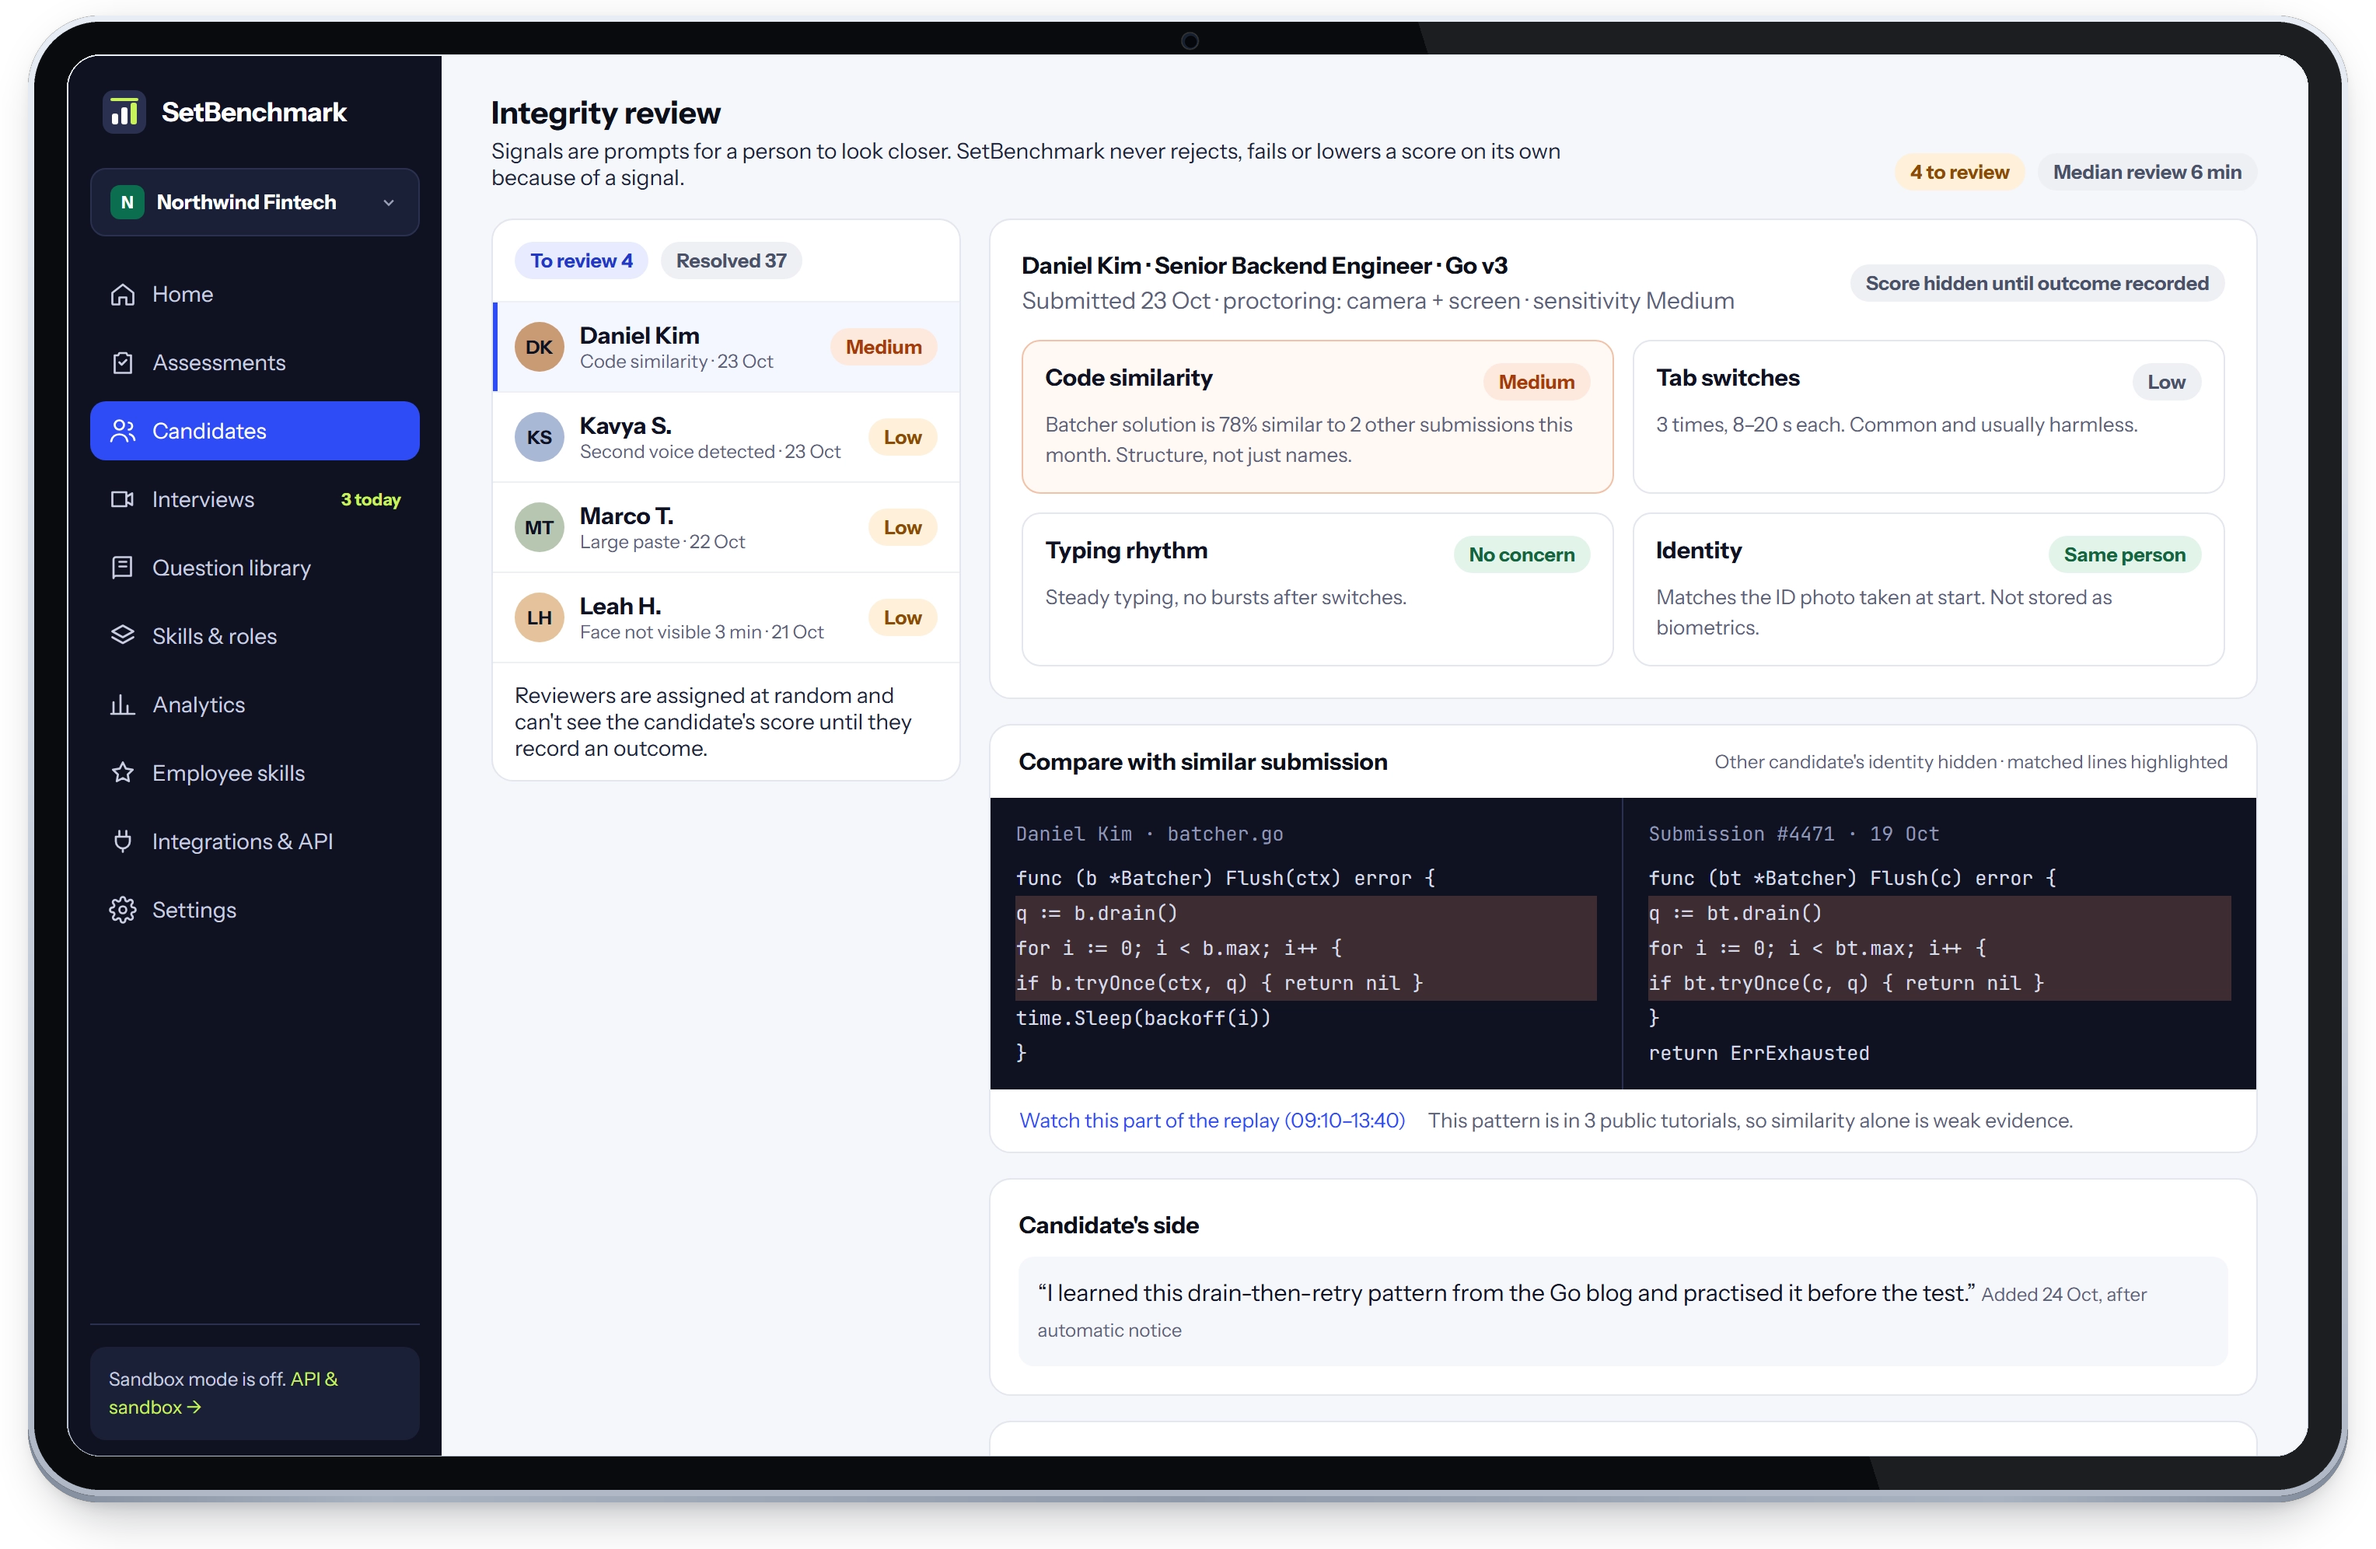
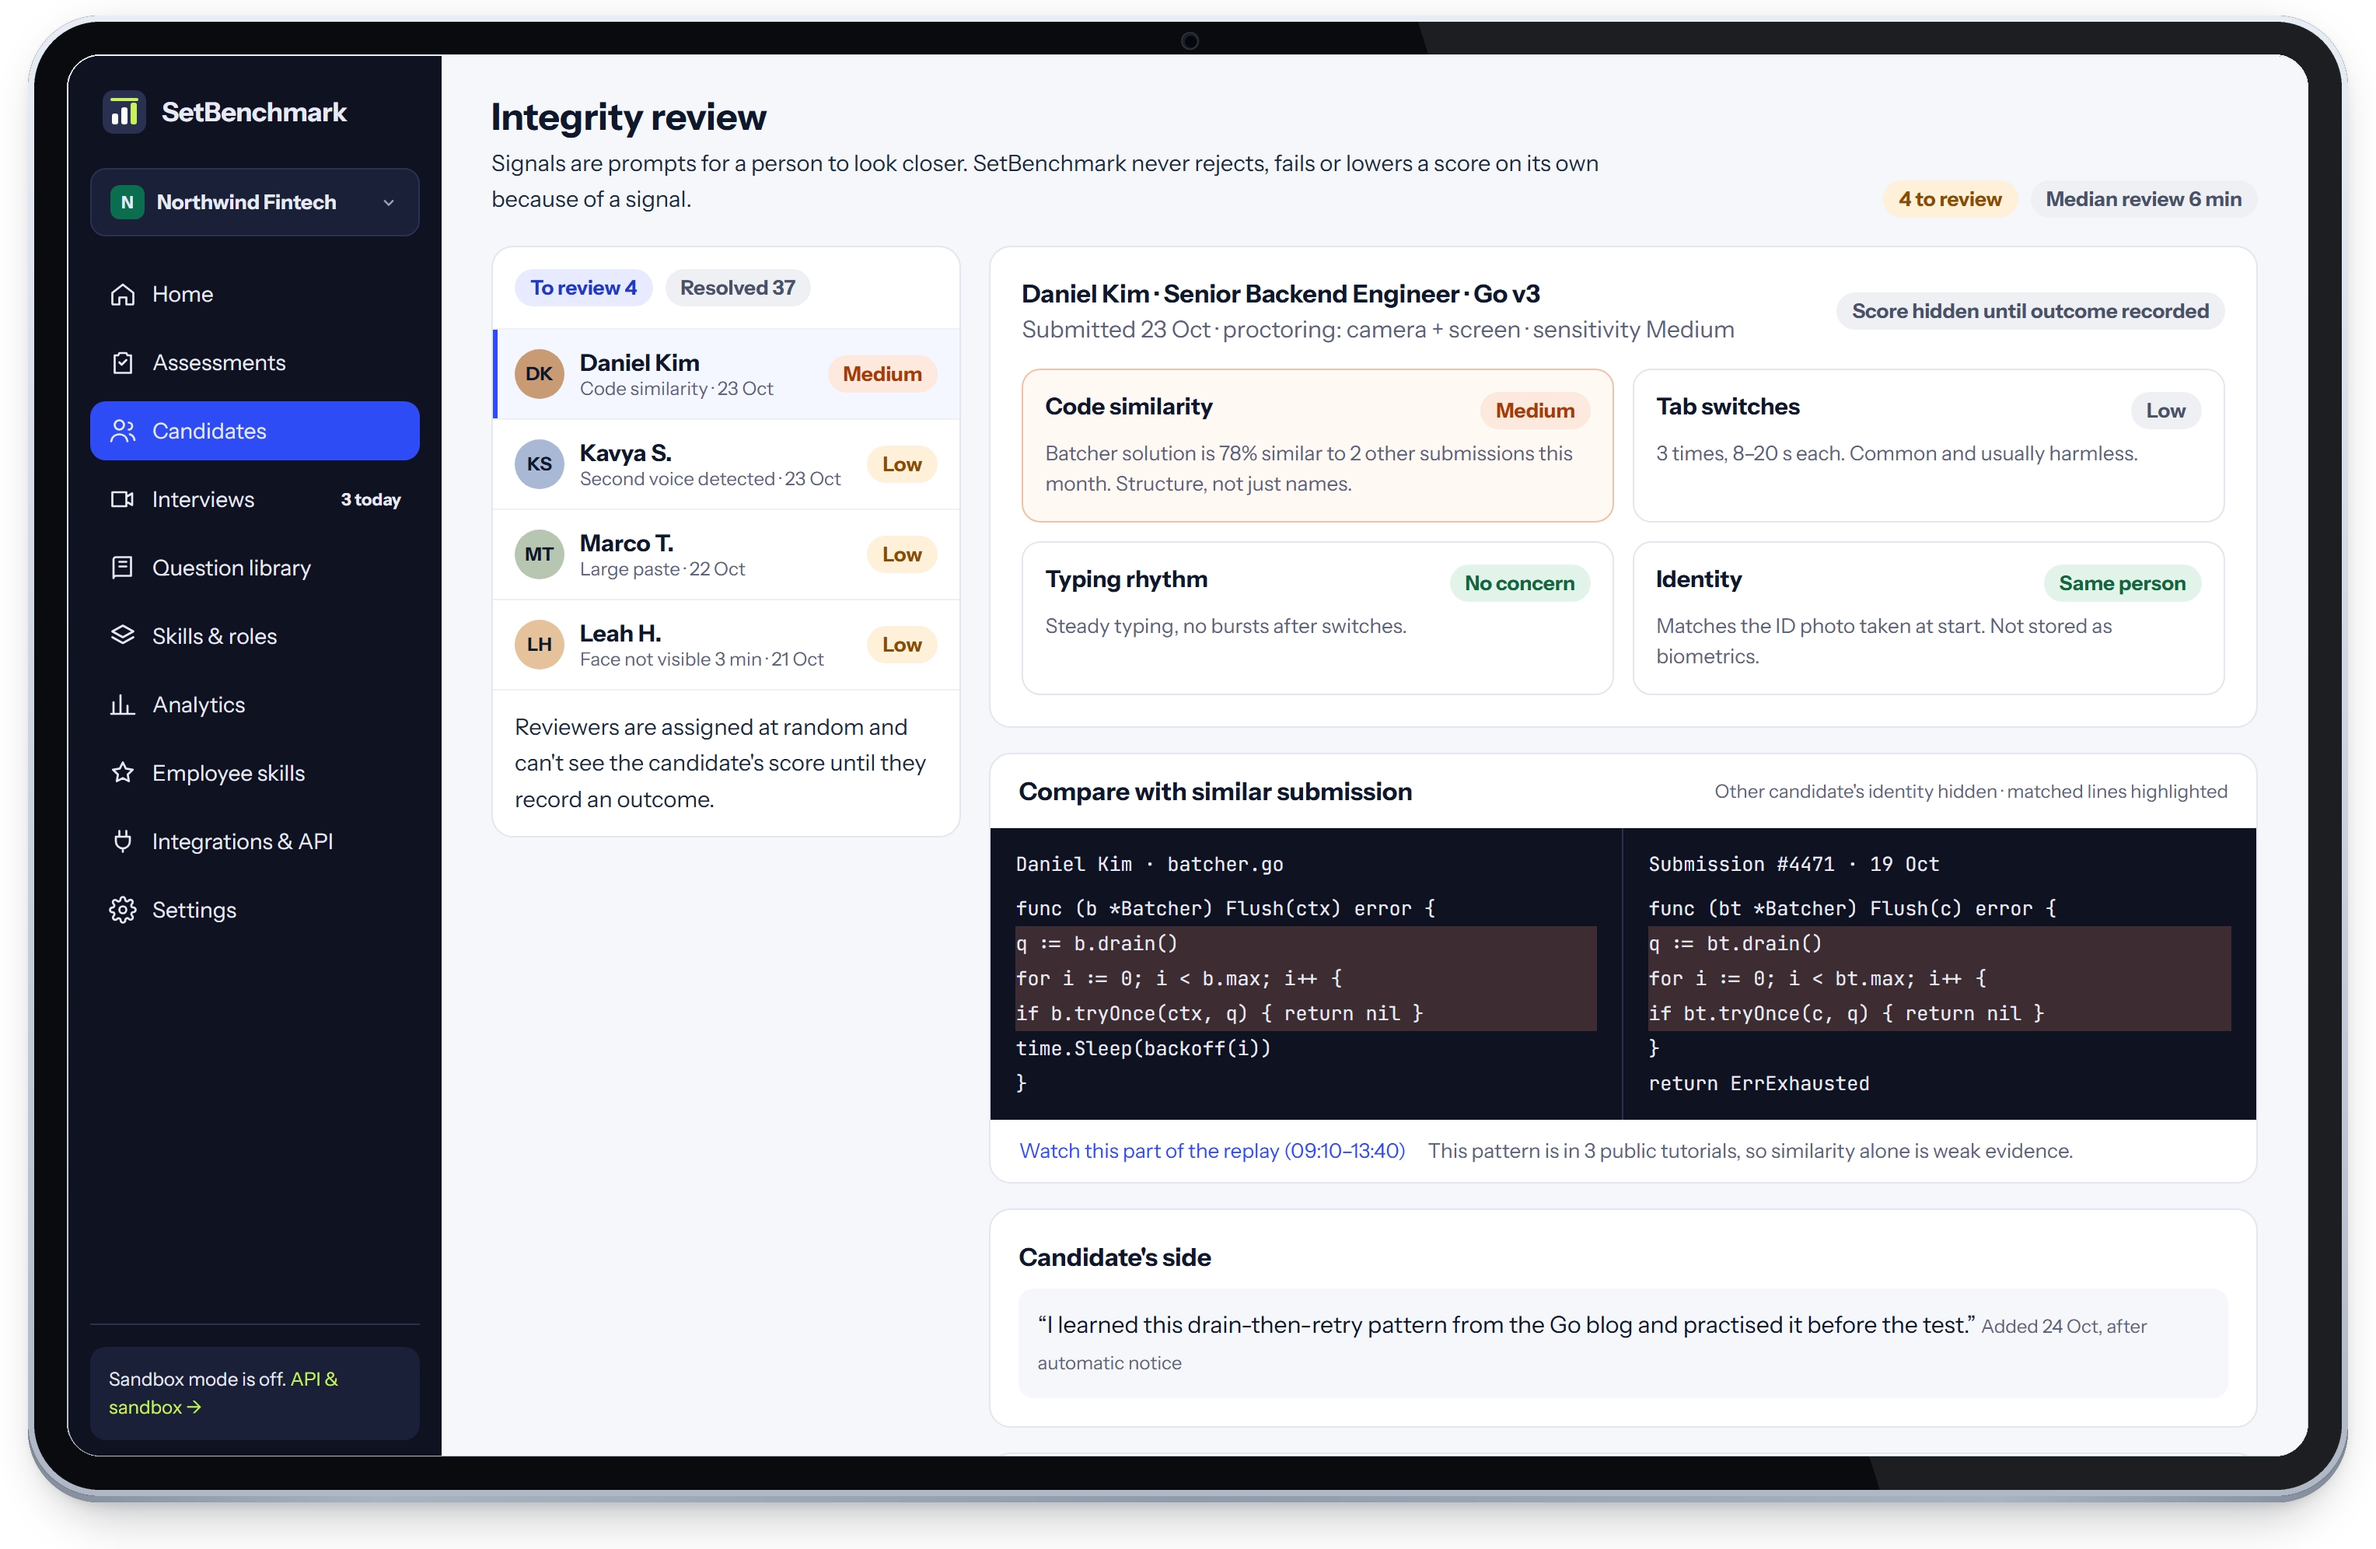
feat(showcase): switch feature cards from simple UI to high-definition tablet mockups with readable text

diff --git a/src/components/EditorialPlatformShowcase.tsx b/src/components/EditorialPlatformShowcase.tsx
@@ -19,7 +19,7 @@ const FEATURE_CARDS: FeatureCard[] = [
     badge: 'REAL-WORLD REPO',
     title: 'Coding Assessments',
     description: 'Screen developers with full repository tasks, API implementations, and system design challenges that mirror production.',
-    image: '/images/product/C05-Coding.webp',
+    image: '/images/mockups/tablet/C05-Coding.webp',
     alt: 'Candidate coding environment with in-browser IDE and test runner',
     url: '/product/coding-assessments/',
   },
@@ -29,7 +29,7 @@ const FEATURE_CARDS: FeatureCard[] = [
     badge: 'AI AGENTS & PROMPTS',
     title: 'AI Fluency Assessments',
     description: 'Evaluate how engineers prompt, review diffs, direct coding agents, and verify subtle hallucinations with AI tools.',
-    image: '/images/product/C06-AIAllowed.webp',
+    image: '/images/mockups/tablet/C06-AIAllowed.webp',
     alt: 'AI-allowed task with assistant chat panel and code diffs',
     url: '/product/ai-fluency-assessments/',
   },
@@ -39,7 +39,7 @@ const FEATURE_CARDS: FeatureCard[] = [
     badge: 'LIVE PAIRING & AI',
     title: 'AI & Live Coding Interviews',
     description: 'Conduct 24/7 adaptive technical first rounds or collaborative pair-programming with shared video, editor, and drawing canvas.',
-    image: '/images/product/I03-LiveInterviewer.webp',
+    image: '/images/mockups/tablet/I03-LiveInterviewer.webp',
     alt: 'Live coding interview panel with video feed and shared code editor',
     url: '/product/live-coding-interviews/',
   },
@@ -49,7 +49,7 @@ const FEATURE_CARDS: FeatureCard[] = [
     badge: 'BLIND HUMAN REVIEW',
     title: 'Proctoring & Anti-Cheat',
     description: 'Identity checks, screen tracking, and keystroke replay reviewed blind by humans—ensuring zero automatic disqualifications.',
-    image: '/images/product/H13-Integrity.webp',
+    image: '/images/mockups/tablet/H13-Integrity.webp',
     alt: 'Proctoring evidence timeline and keystroke playback audit',
     url: '/product/proctoring-integrity/',
   },
@@ -59,7 +59,7 @@ const FEATURE_CARDS: FeatureCard[] = [
     badge: 'LEAK-CHECKED',
     title: 'Question Library',
     description: 'Thousands of continuously rotating coding, SQL, and system design challenges actively monitored against web leaks.',
-    image: '/images/product/L01-Library.webp',
+    image: '/images/mockups/tablet/L01-Library.webp',
     alt: 'Curated technical question library categorized by skill and level',
     url: '/product/question-library/',
   },
@@ -69,7 +69,7 @@ const FEATURE_CARDS: FeatureCard[] = [
     badge: 'BENCHMARKS',
     title: 'Skills Intelligence',
     description: 'Map engineering competencies against 400+ peer attempts, identify team skill gaps, and benchmark candidates for your ATS.',
-    image: '/images/product/H11-Report.webp',
+    image: '/images/mockups/tablet/H11-Report.webp',
     alt: 'Candidate score report with skill percentiles and hiring workflow',
     url: '/product/skills-intelligence/',
   },
@@ -79,7 +79,7 @@ const FEATURE_CARDS: FeatureCard[] = [
     badge: '10+ ATS CONNECTORS',
     title: 'ATS & Workflow Integrations',
     description: 'Two-way synchronization with Greenhouse, Lever, Ashby, SmartRecruiters, Slack, and an extensible REST API.',
-    image: '/images/product/AD06-Integrations.webp',
+    image: '/images/mockups/tablet/AD06-Integrations.webp',
     alt: 'ATS and integration catalog connecting applicant tracking tools',
     url: '/integrations/',
   },
@@ -89,7 +89,7 @@ const FEATURE_CARDS: FeatureCard[] = [
     badge: 'VERIFIED CREDENTIALS',
     title: 'Developer Community',
     description: 'A global developer community featuring free practice sandboxes, coding contests, and employer-verifiable skill certifications.',
-    image: '/images/product/D01-PracticeCatalog.webp',
+    image: '/images/mockups/tablet/D01-PracticeCatalog.webp',
     alt: 'Developer practice catalog with verified assessment challenges',
     url: '/developers/',
   },
@@ -99,7 +99,7 @@ const FEATURE_CARDS: FeatureCard[] = [
     badge: 'SOC2 & RESIDENCY',
     title: 'Enterprise Security & Residency',
     description: 'Built for enterprise scale with SOC2 Type II compliance, local Mumbai & global data residency, and SAML 2.0 SSO.',
-    image: '/images/product/AD09-DataPrivacy.webp',
+    image: '/images/mockups/tablet/AD09-DataPrivacy.webp',
     alt: 'Security settings with SAML SSO, audit logs, and data residency controls',
     url: '/security/',
   },
@@ -280,8 +280,8 @@ export const EditorialPlatformShowcase: React.FC = () => {
                   alt={card.alt} 
                   width="720"
                   height="450"
-                  loading="lazy"
-                  decoding="async"
+                  loading="eager"
+                  decoding="sync"
                   className="editorial-card-img"
                 />
                 <span className="editorial-card-badge">{card.badge}</span>

diff --git a/src/styles/globals.css b/src/styles/globals.css
@@ -5147,11 +5147,12 @@ input[name="cur"]:focus-visible + input, input[name="cur"]:focus-visible ~ .cur 
 .editorial-card-img {
   width: 100%;
   height: 100%;
-  object-fit: cover;
+  object-fit: contain;
   object-position: center;
   border-radius: 0;
   border: none;
   display: block;
+  image-rendering: -webkit-optimize-contrast;
   transition: transform 0.3s ease;
 }
 

diff --git a/scripts/render_high_res_product_uis.py b/scripts/render_high_res_product_uis.py
@@ -38,22 +38,56 @@ html, body {
 }
 body {
   font-size: 15px !important;
+  color: #0F172A !important;
 }
-.mono, pre, code {
-  font-family: 'JetBrains Mono', monospace !important;
+h1, .h1 {
+  font-size: 24px !important;
+  font-weight: 700 !important;
+  color: #0F172A !important;
+}
+h2, h3, .h2, .h3 {
+  font-size: 16px !important;
+  font-weight: 700 !important;
+  color: #0F172A !important;
+}
+p, li, td, th {
   font-size: 14.5px !important;
-  font-weight: 500 !important;
-  color: #FFFFFF !important;
+  color: #1E293B !important;
+  line-height: 1.6 !important;
 }
-.kw { font-weight: 600 !important; }
-.fn { font-weight: 600 !important; }
-.st { font-weight: 500 !important; }
-.ty { font-weight: 600 !important; }
-.ln { font-size: 12.5px !important; opacity: 0.8 !important; }
-h1 { font-size: 20px !important; font-weight: 700 !important; color: #0B0F19 !important; }
-h2, h3 { font-size: 15px !important; font-weight: 700 !important; color: #0B0F19 !important; }
-p, li, td, th { font-size: 14px !important; color: #1E2337 !important; }
-.chip { font-weight: 600 !important; font-size: 12.5px !important; }
+.mono, code, pre {
+  font-family: 'JetBrains Mono', monospace !important;
+}
+/* Code and spans inside problem descriptions or light surfaces */
+p .mono, li .mono, p code, li code {
+  color: #0F172A !important;
+  font-weight: 600 !important;
+}
+pre[style*='background:#F5'], pre[style*='background:#f5'],
+pre[style*='background: #F5'], pre[style*='background: #f5'],
+pre[style*='background:#fff'], pre[style*='background:#FFF'],
+div[style*='background:#F5'] .mono, div[style*='background:#f5'] .mono,
+div[style*='background:#fff'] .mono, div[style*='background:#FFF'] .mono {
+  color: #0F172A !important;
+  font-weight: 500 !important;
+}
+/* Dark panels (editor, test runner, terminal, dark sidebars) */
+[style*='background:#252B45'] .mono, [style*='background:#121626'] .mono,
+[style*='background:#161B2E'] .mono, [style*='background:#1E2337'] .mono,
+[style*='background:#0F1222'] .mono, [style*='background:#1A2035'] .mono,
+[style*='background:#141824'] .mono, [style*='background:#0B0F19'] .mono,
+[style*='background:#121626'] span, [style*='background:#141824'] span,
+[style*='background:#0F1222'] div, [style*='background:#0F1222'] span,
+pre[style*='color:#E6E9F5'] .mono, pre[style*='color:#E6E9F5'] {
+  color: #E6E9F5 !important;
+}
+.kw { color: #D2A8FF !important; font-weight: 600 !important; }
+.fn { color: #79C0FF !important; font-weight: 600 !important; }
+.st { color: #7EE787 !important; font-weight: 500 !important; }
+.cm { color: #8B949E !important; font-style: italic !important; }
+.ty { color: #FFA657 !important; font-weight: 600 !important; }
+.ln { font-size: 13px !important; color: #6E7681 !important; opacity: 1 !important; }
+.chip { font-weight: 600 !important; font-size: 13px !important; }
 </style>
 """
 
